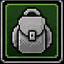
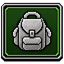
Ujednolić ikony modułów YssPack

diff --git a/YssPack.user.js b/YssPack.user.js
@@ -1,7 +1,7 @@
 // ==UserScript==
 // @name         YssPack
 // @namespace    acesaff-ysspack
-// @version      0.15.84
+// @version      0.15.85
 // @description  YssPack — panel dodatków działający bezpośrednio w Margonem.
 // @author       Król Yss
 // @homepageURL  https://www.margonem.pl/profile/view,10050726#char_5601,luvia
@@ -31,7 +31,7 @@
   if (document.yssPack?.loaderVersion) return;
 
   const BASE_URL = 'https://acesafff-ship-it.github.io/ysspack/';
-  const LOADER_VERSION = '0.15.84';
+  const LOADER_VERSION = '0.15.85';
   const onMainSite = location.hostname === 'www.margonem.pl';
   if (onMainSite && !/^\/ladder(?:\/[^/]+)?(?:\/players)?\/?$/i.test(location.pathname)) return;
   const now = new Date();

diff --git a/pack.js b/pack.js
@@ -4,7 +4,7 @@ if (!host || document.querySelector('#ysspack')) {
   throw new Error('[YssPack] Loader nie jest aktywny albo panel został już uruchomiony.');
 }
 
-const PACK_VERSION = '0.15.84';
+const PACK_VERSION = '0.15.85';
 const UPDATE_MANIFEST_URL = new URL('manifest.json', import.meta.url).href;
 const UPDATE_INSTALL_URL = new URL('YssPack.user.js', import.meta.url).href;
 const STORAGE_PREFIX = 'ysspack_';
